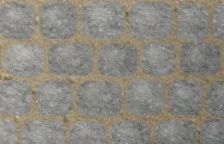
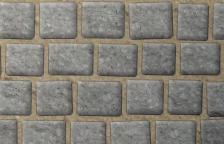
Andrzej v8.1: Befunde der unabhängigen Prüfung – Projektant-Bild bleibt beim Scrollen stehen (sticky), Ecken nicht mehr abgeschnitten und nur gültige Vierecke, Fläche stabil (nur innerhalb des Terrains), Granit und Łuki als flache Steine statt Münzen, Mip-Bias gegen Moiré, Memory-Ende lesbar, Einble
Claude-Session: https://claude.ai/code/session_016LEtCW6mJfviGnodob6dCP

diff --git a/andrzej/js/projektant.js b/andrzej/js/projektant.js
@@ -20,7 +20,7 @@
       maska: [[.31, .04], [.583, .04], [.583, .69], [.56, .77], [.5, .84], [.42, .88], [.32, .91], [.2, .94], [.1, .965], [.07, .93], [.14, .83], [.19, .72], [.22, .6], [.24, .47], [.27, .33], [.29, .2]] }
   ];
   const WZORY = [['herring', 'Jodełka'], ['rows', 'Cegiełka'], ['basket', 'Koszyk'], ['slabs', 'Płyty 60×30'], ['cobble', 'Kostka granitowa'], ['arcs', 'Łuki'], ['grid', 'Kostka 10×10']];
-  const KOLORY = [['grafit', 'Grafit'], ['szary', 'Szary'], ['bianco', 'Bianco'], ['piaskowy', 'Piaskowy'], ['melanz', 'Melanż'], ['braz', 'Brąz'], ['granit', 'Granit'], ['lupek', 'Łupek']];
+  const KOLORY = [['grafit', 'Grafit'], ['szary', 'Szary'], ['bianco', 'Bianco'], ['piaskowy', 'Piaskowy'], ['melanz', 'Melanż'], ['granit', 'Granit'], ['lupek', 'Łupek']];
   const OBRZEZA = [['', 'Bez obrzeża'], ['grafit', 'Grafit'], ['bianco', 'Bianco'], ['zolty', 'Żółte'], ['melanz', 'Melanż']];
   const nazwa = (lista, id) => (lista.find(x => x[0] === id) || ['', id])[1];
 
@@ -58,7 +58,7 @@
     g.save(); if (st.obrz) { g.beginPath(); g.rect(qx0 + pas, qy0 + pas, qx1 - qx0 - 2 * pas, qy1 - qy0 - 2 * pas); g.clip(); }
     const m = 260 * S.k;
     for (const s of lista) { if (rot) { const dx = s.x - cx, dy = s.y - cy; s.x = cx - dy; s.y = cy + dx; s.rot += rot; if (s.poly) s.poly = s.poly.map(([a, b]) => [cx - (b - cy), cy + (a - cx)]); }
-      if (s.x < -m || s.y < -m || s.x > iw + m || s.y > ih + m) continue; S.drawOne(g, s, 1, 2); }
+      if (s.x < -m || s.y < -m || s.x > iw + m || s.y > ih + m) continue; if (s.kind === 'dome') s.kind = 'block'; S.drawOne(g, s, 1, 2); }
     g.restore(); g.setTransform(1, 0, 0, 1, 0, 0);
     if (st.obrz) { // poza terenem nic, na brzegu rząd (albo dwa) kostki 20×10 wzdłuż krawędzi
       g.save(); g.globalCompositeOperation = 'destination-in'; g.fillStyle = '#000'; g.fillRect(qx0, qy0, qx1 - qx0, qy1 - qy0); g.restore();
@@ -113,8 +113,7 @@
   }
   function powierzchnia() { // próbkowanie w płaszczyźnie terenu (równe metry, nie piksele)
     if (!mask) return 0; const H = homografia(st.rogi), md = mx.getImageData(0, 0, mask.width, mask.height).data; let n = 0, all = 0; const K = 40;
-    for (let j = -10; j < K + 10; j++) for (let i = -10; i < K + 10; i++) { const u = (i + .5) / K, v = (j + .5) / K; const [x, y] = naZdj(H, u, v); if (x < 0 || y < 0 || x >= 1 || y >= 1) continue;
-      if (st.obrz && (u < 0 || u > 1 || v < 0 || v > 1)) continue; if (md[(((y * mask.height) | 0) * mask.width + ((x * mask.width) | 0)) * 4] > 127) n++; }
+    for (let j = 0; j < K; j++) for (let i = 0; i < K; i++) { const u = (i + .5) / K, v = (j + .5) / K; const w = H[6] * u + H[7] * v + H[8]; if (w <= 0) continue; const [x, y] = naZdj(H, u, v); if (x < 0 || y < 0 || x >= 1 || y >= 1) { n++; continue; } if (md[(((y * mask.height) | 0) * mask.width + ((x * mask.width) | 0)) * 4] > 127) n++; }
     return st.wm * st.lm * n / (K * K);
   }
 
@@ -124,7 +123,7 @@
 float h12(vec2 p){return fract(sin(dot(p,vec2(12.9898,78.233)))*43758.5453);}
 void main(){vec3 f=texture2D(tF,v).rgb;vec3 col=f;vec3 q=Hi*vec3(v,1.);
 if(q.z>0.){vec2 uv=q.xy/q.z;vec2 t=(uv+E)/(1.+2.*E);
- if(t.x>0.&&t.x<1.&&t.y>0.&&t.y<1.){vec4 k=texture2D(tK,t);float m=texture2D(tM,v).r*k.a;
+ if(t.x>0.&&t.x<1.&&t.y>0.&&t.y<1.){vec4 k=texture2D(tK,t,.6);float m=texture2D(tM,v).r*k.a;
   float L=texture2D(tC,v).r;float s=clamp(L/max(lref,.03),.42,1.22);s=mix(1.,pow(s,.85),cienie);
   vec3 n=k.rgb*tint*s+(h12(floor(v*res))-.5)*.035;float e=smoothstep(.0,.55,m);n*=mix(.82,1.,smoothstep(.35,1.,m));
   col=mix(f,n,e);}}
@@ -211,11 +210,15 @@ gl_FragColor=vec4(mix(f,col,step(split,v.x)),1.);}`;
   const poz = e => { const r = scena.getBoundingClientRect(); return [clamp((e.clientX - r.left) / r.width, 0, 1), clamp((e.clientY - r.top) / r.height, 0, 1)]; };
   $$('.pk-rog').forEach((b, i) => {
     b.addEventListener('pointerdown', e => { e.preventDefault(); e.stopPropagation(); ciagnij = { typ: 'rog', i }; b.setPointerCapture(e.pointerId); ruszony(); });
-    b.addEventListener('pointermove', e => { if (!ciagnij || ciagnij.typ !== 'rog' || ciagnij.i !== i) return; st.rogi[i] = poz(e); poRogach(); });
+    b.addEventListener('pointermove', e => { if (!ciagnij || ciagnij.typ !== 'rog' || ciagnij.i !== i) return; ustawRog(i, poz(e)); });
     b.addEventListener('pointerup', () => { if (ciagnij) { ciagnij = null; poRogachKoniec(); } });
     b.addEventListener('keydown', e => { const d = e.shiftKey ? .02 : .005, k = { ArrowLeft: [-d, 0], ArrowRight: [d, 0], ArrowUp: [0, -d], ArrowDown: [0, d] }[e.key]; if (!k) return; e.preventDefault(); ruszony();
-      st.rogi[i] = [clamp(st.rogi[i][0] + k[0], 0, 1), clamp(st.rogi[i][1] + k[1], 0, 1)]; poRogach(); clearTimeout(b._t); b._t = setTimeout(poRogachKoniec, 300); });
+      ustawRog(i, [clamp(st.rogi[i][0] + k[0], 0, 1), clamp(st.rogi[i][1] + k[1], 0, 1)]); clearTimeout(b._t); b._t = setTimeout(poRogachKoniec, 300); });
   });
+  function wypukly(q) { // wypukły czworokąt o rozsądnej wielkości – inaczej perspektywa się „zawija”
+    let znak = 0; for (let i = 0; i < 4; i++) { const a = q[i], b = q[(i + 1) % 4], c = q[(i + 2) % 4]; const z = (b[0] - a[0]) * (c[1] - b[1]) - (b[1] - a[1]) * (c[0] - b[0]); if (Math.abs(z) < 1e-4) return false; const sg = Math.sign(z); if (znak && sg !== znak) return false; znak = sg; }
+    for (let i = 0; i < 4; i++) for (let j = i + 1; j < 4; j++) if (Math.hypot(q[i][0] - q[j][0], q[i][1] - q[j][1]) < .06) return false; return true; }
+  function ustawRog(i, p) { const q = st.rogi.map(r => r.slice()); q[i] = p; if (!wypukly(q)) return; st.rogi[i] = p; poRogach(); }
   function poRogach() { if (!st.maskaWlasna && !st.maskaPoly) { maskaDomyslna(); maskaBrudna = true; } ustawRogi(); rysuj(); }
   function poRogachKoniec() { liczLref(); podsumowanie(); rysuj(); }
   scena.addEventListener('pointerdown', e => {
@@ -272,10 +275,10 @@ gl_FragColor=vec4(mix(f,col,step(split,v.x)),1.);}`;
     kol.addEventListener('click', e => { const b = e.target.closest('[data-pal]'); if (!b) return; st.pal = b.dataset.pal; zaznacz(kol, 'pal', st.pal); planujKamien(); ruszony(); });
     ob.addEventListener('click', e => { const b = e.target.closest('[data-obrz]'); if (b) { st.obrz = b.dataset.obrz; $$('[data-obrz]').forEach(x => { const on = x.dataset.obrz === st.obrz; x.classList.toggle('on', on); x.setAttribute('aria-pressed', String(on)); }); planujKamien(); return; }
       if (e.target.closest('#pkObrzR')) { st.obrzR = st.obrzR === 1 ? 2 : 1; const r = $('#pkObrzR'); r.classList.toggle('on', st.obrzR === 2); r.setAttribute('aria-pressed', String(st.obrzR === 2)); if (!st.obrz) { st.obrz = 'grafit'; $$('[data-obrz]').forEach(x => { const on = x.dataset.obrz === 'grafit'; x.classList.toggle('on', on); x.setAttribute('aria-pressed', String(on)); }); } planujKamien(); } });
-    $('#pkPrzyklady').innerHTML = PRZYKLADY.map((p, i) => `<button type="button" class="pk-przyk" data-i="${i}" aria-pressed="${i === 0}"><img src="${p.src}" alt="" width="96" height="72" loading="lazy" decoding="async"><span>${p.nazwa}</span></button>`).join('');
-    $('#pkPrzyklady').addEventListener('click', e => { const b = e.target.closest('[data-i]'); if (!b) return; laduj(PRZYKLADY[+b.dataset.i].src, +b.dataset.i); });
     odswiezKafle();
   }
+  $('#pkPrzyklady').innerHTML = PRZYKLADY.map((p, i) => `<button type="button" class="pk-przyk" data-i="${i}" aria-pressed="${i === 0}"><img src="${p.src}" alt="" width="96" height="72" loading="lazy" decoding="async"><span>${p.nazwa}</span></button>`).join('');
+  $('#pkPrzyklady').addEventListener('click', e => { const b = e.target.closest('[data-i]'); if (!b || !S) return; laduj(PRZYKLADY[+b.dataset.i].src, +b.dataset.i); });
   function zaznacz(box, k, v) { box.querySelectorAll(`[data-${k}]`).forEach(b => b.setAttribute('aria-pressed', String(b.dataset[k] === v))); }
   function odswiezKafle() { $$('#pkWzory [data-pat]').forEach(b => kafelek(b.dataset.pat, st.pal, b)); $$('#pkKolory [data-pal]').forEach(b => kafelek(st.pat, b.dataset.pal, b)); }
   const opis = () => `${nazwa(WZORY, st.pat)} · ${nazwa(KOLORY, st.pal)}${st.obrz ? ` · obrzeże ${nazwa(OBRZEZA, st.obrz).toLowerCase()}${st.obrzR === 2 ? ' (2 rzędy)' : ''}` : ''}`;
@@ -328,6 +331,9 @@ gl_FragColor=vec4(mix(f,col,step(split,v.x)),1.);}`;
     window.GBprojektant = { ustaw(pat, pal) { if (pat) st.pat = pat; if (pal) st.pal = pal; zaznacz($('#pkWzory'), 'pat', st.pat); zaznacz($('#pkKolory'), 'pal', st.pal); planujKamien(true); },
       test: () => ({ gl: !!gl, tryb2d, foto: !!st.foto, kamien: kamienGotowy, m2: m2(), opis: opis(), split: st.split, krok: st.krok, w: cv.width, h: cv.height, lref }), st, krok, rysujTeraz, nak: () => nak, D: () => D };
   }
-  function gotowy() { const io = new IntersectionObserver(es => { if (es.some(e => e.isIntersecting)) { io.disconnect(); start(); } }, { rootMargin: '900px 0px' }); io.observe(root); }
+  function gotowy() { let ok = false; const go = () => { if (ok) return; ok = true; io.disconnect(); removeEventListener('scroll', blisko); start(); };
+    const io = new IntersectionObserver(es => { if (es.some(e => e.isIntersecting)) go(); }, { rootMargin: '1400px 0px' }); io.observe(root);
+    const blisko = () => { const r = root.getBoundingClientRect(); if (r.top < innerHeight + 1400 && r.bottom > -1400) go(); }; addEventListener('scroll', blisko, { passive: true }); setTimeout(blisko, 1500);
+    addEventListener('intro-koniec', () => { const bez = window.requestIdleCallback || (f => setTimeout(f, 1)); setTimeout(() => bez(go, { timeout: 3000 }), 2500); }, { once: true }); }
   if (window.Swiat && window.Swiat.bedPattern) gotowy(); else addEventListener('swiat', gotowy, { once: true });
 })();

diff --git a/andrzej/js/scena6.js b/andrzej/js/scena6.js
@@ -149,7 +149,7 @@
     if (!wcv || !S) return; wPat = pat; wPal = pal; if (!wW) wzRozmiar(); if (!wW) return;
     S.k = wK; wSt = []; S.genPattern(pat, pal, -wW * .05, -wH * .05, wW * 1.05, wH * 1.05, () => true, wSt, { cell: 360 });
     const cx = wW * .5, cy = wH * .5, R = Math.hypot(wW, wH) * .5;
-    wSt.forEach(s => { s.d = Math.hypot(s.x - cx, s.y - cy) / R; s.h1 = hash(s.v + 5, (s.x * 3) | 0); });
+    wSt.forEach(s => { s.d = Math.hypot(s.x - cx, s.y - cy) / R; s.h1 = hash(s.v + 5, (s.x * 3) | 0); if (s.kind === 'dome') s.kind = 'block'; });
     wT0 = performance.now() - (anim && !RM ? 0 : 5000); if (!wRun) { wRun = true; requestAnimationFrame(wzFrame); }
   }
   function wzFrame(now) {
@@ -176,10 +176,10 @@
     const grupy = [['.tytul', 'rv-t'], ['.sek .lead, .opinie, .sek .cta, .katalogi, .maly, .kt-dane > p, .kt-dane > a, .kt-btn, .formularz, .wz-ster, .pl-ster, .koniec-napis, [data-rv]', ''], ['.foto', 'rv-f'], ['.kafel', ''], ['.kroki li', 'rv-x']];
     const io = new IntersectionObserver(es => es.forEach(e => { if (!e.isIntersecting) return; const el = e.target; io.unobserve(el); el.classList.add('on');
       const fertig = () => { el.classList.remove('rv', 'rv-t', 'rv-f', 'rv-x', 'on'); el.style.transitionDelay = ''; };
-      setTimeout(fertig, 1700 + (parseFloat(el.style.transitionDelay) || 0) * 1000); }), { rootMargin: '0px 0px -5% 0px', threshold: 0 });
+      setTimeout(fertig, 1700 + (parseFloat(el.style.transitionDelay) || 0) * 1000); }), { rootMargin: '0px 0px 12% 0px', threshold: 0 });
     for (const [sel, v] of grupy) document.querySelectorAll(sel).forEach(el => { if (el.closest('#start') || el.classList.contains('rv')) return;
       const sib = [...el.parentElement.children].filter(c => c.matches(sel)); const i = Math.min(sib.indexOf(el), 5);
-      el.classList.add('rv'); if (v) el.classList.add(v); if (i > 0) el.style.transitionDelay = (i * .07).toFixed(2) + 's'; io.observe(el); });
+      el.classList.add('rv'); if (v) el.classList.add(v); if (i > 0) el.style.transitionDelay = (i * .05).toFixed(2) + 's'; io.observe(el); });
     // Sicherheitsnetz: was im oder über dem Bild liegt, ist spätestens nach 6 s sichtbar
     setTimeout(() => document.querySelectorAll('.rv:not(.on)').forEach(el => { if (el.getBoundingClientRect().top < innerHeight) el.classList.add('on'); }), 6000);
   }

diff --git a/andrzej/js/gry.js b/andrzej/js/gry.js
@@ -32,7 +32,7 @@
     const LIMIT = 6;
     function rozmiar() { const r = cv.getBoundingClientRect(); if (!r.width) return; D = Math.min(devicePixelRatio || 1, 2); W = r.width; H = r.height; cv.width = Math.round(W * D); cv.height = Math.round(H * D); k = W < 560 ? W / 1250 : W / 2100; uloz(stan === 'gra' && rundy[runda] ? rundy[runda] : { pat: 'herring', pal: 'grafit' }, !lista.length); }
     function uloz(r, anim) { if (!S) return; const saveK = S.k; S.k = k; lista = []; S.genPattern(r.pat, r.pal, -40, -40, W + 40, H + 40, () => true, lista, { cell: r.pat === 'wild' ? 330 : 0 }); S.k = saveK;
-      const ox = Math.random() < .5 ? 0 : W, oy = Math.random() < .5 ? 0 : H, R = Math.hypot(W, H); lista.forEach(s => { s.d = Math.hypot(s.x - ox, s.y - oy) / R; }); t0 = performance.now() - (anim && !RM ? 0 : 9e3); start(); }
+      const ox = Math.random() < .5 ? 0 : W, oy = Math.random() < .5 ? 0 : H, R = Math.hypot(W, H); lista.forEach(s => { s.d = Math.hypot(s.x - ox, s.y - oy) / R; if (s.kind === 'dome') s.kind = 'block'; }); t0 = performance.now() - (anim && !RM ? 0 : 9e3); start(); }
     function klatka(now) {
       rafOn = false; if (!widac || !W) return; const t = (now - t0) / 1000; const saveK = S.k; S.k = k;
       x.setTransform(D, 0, 0, D, 0, 0); x.fillStyle = S.bedPattern || '#c9b48d'; x.fillRect(0, 0, W, H); let dalej = false;
@@ -89,6 +89,8 @@
   })();
 
   function start() { S = window.Swiat; miniatury(); rekordy(); zg.init(); mem.init(); window.GBgry = { zg: zg.test, mem: mem.test, pokaz }; }
-  function gotowy() { const io = new IntersectionObserver(es => { if (es.some(e => e.isIntersecting)) { io.disconnect(); start(); } }, { rootMargin: '700px 0px' }); io.observe(sek); }
+  function gotowy() { let ok = false; const go = () => { if (ok) return; ok = true; io.disconnect(); removeEventListener('scroll', blisko); start(); };
+    const io = new IntersectionObserver(es => { if (es.some(e => e.isIntersecting)) go(); }, { rootMargin: '700px 0px' }); io.observe(sek);
+    const blisko = () => { const r = sek.getBoundingClientRect(); if (r.top < innerHeight + 900 && r.bottom > -900) go(); }; addEventListener('scroll', blisko, { passive: true }); setTimeout(blisko, 1500); }
   if (window.Swiat && window.Swiat.bedPattern) gotowy(); else addEventListener('swiat', gotowy, { once: true });
 })();

diff --git a/andrzej/index.html b/andrzej/index.html
@@ -17,7 +17,7 @@
 <link rel="preload" href="fonts/big-shoulders-display-latin-900-normal.woff2" as="font" type="font/woff2" crossorigin>
 <link rel="preload" as="image" href="img/real/plac-hero.webp" media="(min-width: 821px)">
 <link rel="preload" as="image" href="img/real/plac-hero-m.webp" media="(max-width: 820px)">
-<link rel="stylesheet" href="css/v6.css?v=16">
+<link rel="stylesheet" href="css/v6.css?v=17">
 <script type="application/ld+json">{"@context":"https://schema.org","@type":"HomeAndConstructionBusiness","name":"Centrum Architektury Ogrodowej GardenBruk","alternateName":"GardenBruk","description":"Skład z ekspozycją: kostka brukowa, płyty tarasowe, ogrodzenia, palisady, kruszywo dekoracyjne, wypożyczalnia sprzętu. Pomiar u klienta.","address":{"@type":"PostalAddress","streetAddress":"Mikowice 16","postalCode":"57-300","addressLocality":"Kłodzko","addressCountry":"PL"},"telephone":"+48500250936","email":"biuro@gardenbruk.net","image":"https://entwurf.falcon-eye.de/andrzej/img/real/plac-hero.webp","sameAs":["https://www.facebook.com/gardenbruk.net/","https://www.instagram.com/gardenbruk/"],"areaServed":"Ziemia Kłodzka"}</script>
 </head>
 <body class="intro">
@@ -305,13 +305,13 @@
 </aside>
 <div class="toast" id="toast" role="status" aria-live="polite"></div>
 
-<script src="js/swiat2d.js?v=16"></script>
-<script src="js/gsap.min.js?v=16"></script>
-<script src="js/ScrollTrigger.min.js?v=16"></script>
-<script src="js/scena6.js?v=16"></script>
-<script src="js/gra.js?v=16"></script>
-<script src="js/projektant.js?v=16"></script>
-<script src="js/gry.js?v=16"></script>
-<script src="js/strona6.js?v=16"></script>
+<script src="js/swiat2d.js?v=17"></script>
+<script src="js/gsap.min.js?v=17"></script>
+<script src="js/ScrollTrigger.min.js?v=17"></script>
+<script src="js/scena6.js?v=17"></script>
+<script src="js/gra.js?v=17"></script>
+<script src="js/projektant.js?v=17"></script>
+<script src="js/gry.js?v=17"></script>
+<script src="js/strona6.js?v=17"></script>
 </body>
 </html>

diff --git a/andrzej/css/v6.css b/andrzej/css/v6.css
@@ -322,7 +322,7 @@ body.odslona .hero-dalej{opacity:1}
 }
 
 /* ---------- Einblendungen (v8): laufen immer zu Ende, nur transform/opacity ---------- */
-.rv{opacity:0;transform:translate3d(0,30px,0);transition:opacity .85s cubic-bezier(.16,1,.3,1),transform .95s cubic-bezier(.16,1,.3,1)!important}
+.rv{opacity:0;transform:translate3d(0,24px,0);transition:opacity .55s cubic-bezier(.2,.7,.2,1),transform .7s cubic-bezier(.16,1,.3,1)!important}
 .rv.rv-x{transform:translate3d(-26px,0,0)}
 .rv.rv-t{transform:translate3d(0,40px,0)}
 .rv.on{opacity:1;transform:none}
@@ -468,3 +468,18 @@ main{background-color:var(--tlo);background-image:var(--plac,none);background-si
 .pk-laduje[hidden]{display:none}
 #zgCv{position:absolute;inset:0;display:block;width:100%;height:100%}
 .pk-scena:not(.teren) #pkNak{visibility:hidden}
+/* v8.1 – Befunde der unabhängigen Prüfung */
+.mem-pole .gra-start{background:rgba(22,26,18,.84);border-radius:inherit}
+.pk-buehne{position:sticky;top:calc(var(--pasek) + 12px);z-index:2;align-self:start}
+.pk-scena{overflow:visible}
+.pk-scena canvas{border-radius:14px}
+.pk-rog{width:34px;height:34px;margin:-17px 0 0 -17px}
+.gra-hud span{white-space:nowrap}
+.zgoda input{width:24px;height:24px;margin-top:0}
+@media (max-width:1100px){ .pk-buehne{top:calc(var(--pasek) + 6px);padding-bottom:6px;background:var(--grafit);border-radius:14px} }
+@media (max-width:820px){
+  .gra-hud{left:8px;right:8px;top:8px;gap:4px}.gra-hud span{font-size:12px;padding:7px 9px}
+  .tel{min-width:44px;min-height:44px;justify-content:center}.tel svg{width:22px;height:22px}
+  .pk-kroki button{font-size:12.5px}
+  .kafle>.kafel:last-child:nth-child(odd){grid-column:span 2}
+}

diff --git a/andrzej/js/swiat2d.js b/andrzej/js/swiat2d.js
@@ -609,6 +609,7 @@
       const x = c.getContext('2d'); x.setTransform(1, 0, 0, 1, 0, 0); x.fillStyle = bedPat || '#c9b18a'; x.fillRect(0, 0, W2, H2);
       const w = W2 / DPR, h = H2 / DPR, list = []; genPattern(pat, pal, -40, -40, w + 40, h + 40, () => true, list, opt);
       if (opt.colorAt) list.forEach(s => { const cc = opt.colorAt(s.x, s.y); if (cc) s.col = cc; });
+      if (opt.plaskie) list.forEach(s => { if (s.kind === 'dome') s.kind = 'block'; });
       for (const s of list) drawStone(x, s, 0, 2);
       x.setTransform(1, 0, 0, 1, 0, 0);
       if (opt.light !== false) { const gr = x.createLinearGradient(0, 0, W2, H2); gr.addColorStop(0, 'rgba(255,240,210,.16)'); gr.addColorStop(1, 'rgba(0,0,0,.22)'); x.fillStyle = gr; x.fillRect(0, 0, W2, H2); }
